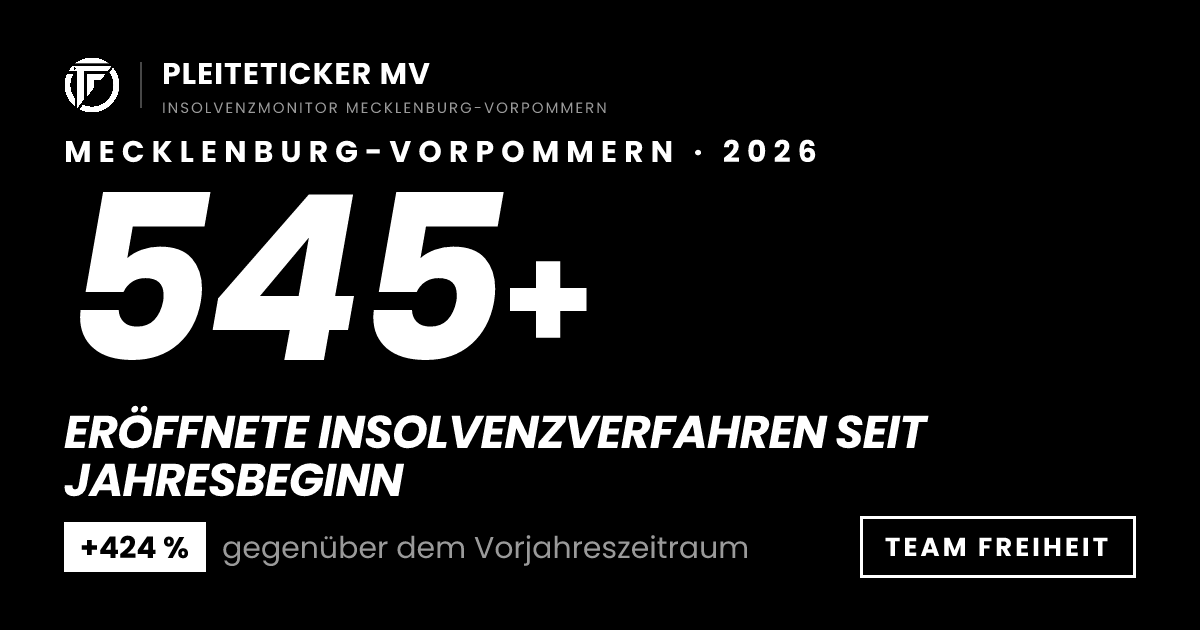
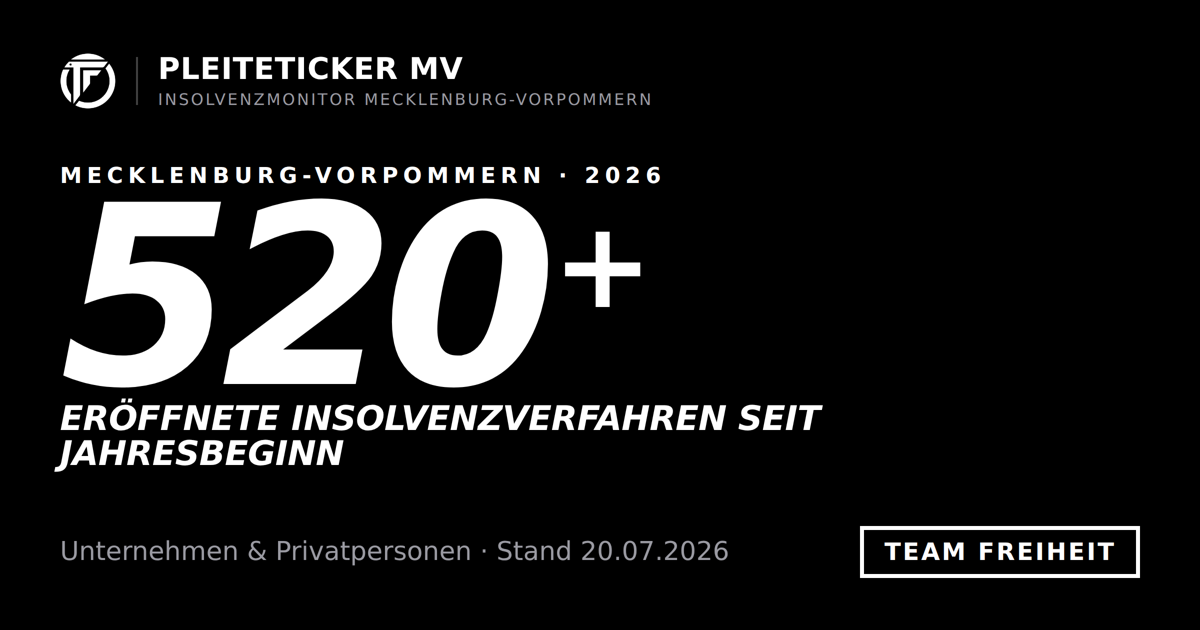
Ticker entschaerft: CTA auf team-freiheit.de, +400%-Vergleich entfernt, amtliche Einordnung (StatA M-V) ergaenzt

diff --git a/index.html b/index.html
@@ -1,4 +1,4 @@
-<!-- redeploy-trigger: 2026-07-24 sw-inversion -->
+<!-- redeploy-trigger: 2026-07-21 sw-inversion -->
 <!DOCTYPE html>
 <html lang="de">
 <head>
@@ -7,7 +7,7 @@
 <meta name="theme-color" content="#000000">
 <meta property="og:image" content="https://pleiteticker-mv.vercel.app/og-image.png">
 <meta property="og:title" content="Pleiteticker MV – Team Freiheit">
-<meta property="og:description" content="545 Insolvenzeröffnungen in MV seit Januar 2026 – +424 % gegenüber 2025">
+<meta property="og:description" content="Dokumentierte Insolvenzeröffnungen in MV seit Januar 2026 – Unternehmen &amp; Privatpersonen. Quelle: insolvenzbekanntmachungen.de">
 <meta property="og:url" content="https://pleiteticker-mv.vercel.app">
 <meta property="og:type" content="website">
 <link rel="icon" type="image/png" href="favicon.png">
@@ -159,7 +159,7 @@ footer a { color:var(--muted); text-decoration:underline; }
 </div>
 </div>
 <div class="hdr-right">
-<a href="https://machmit-team-freiheit.pages.dev/#mitmachen" class="hdr-cta" target="_blank" rel="noopener">Welches Team bist du? <span class="arw">→</span></a>
+<a href="https://www.team-freiheit.de" class="hdr-cta" target="_blank" rel="noopener">Welches Team bist du? <span class="arw">→</span></a>
 </div>
 </header>
 
@@ -171,7 +171,7 @@ footer a { color:var(--muted); text-decoration:underline; }
 <!-- SCHWARZ: Hero -->
 <section class="band band-dark">
 <div class="inner hero">
-<div class="eyebrow">Mecklenburg-Vorpommern · 01.01.2026 – 24.07.2026</div>
+<div class="eyebrow">Mecklenburg-Vorpommern · 01.01.2026 – 20.07.2026</div>
 <div class="ctr-wrap">
 <div class="ctr-num" id="mainCtr">0</div>
 <div class="ctr-plus">+</div>
@@ -179,12 +179,12 @@ footer a { color:var(--muted); text-decoration:underline; }
 <div class="hero-lbl display">Eröffnete Insolvenzverfahren in MV seit Jahresbeginn</div>
 <div class="hero-sub">Stand: <span id="standDatum">–</span> · Nur Eröffnungen · Wöchentlich aktualisiert · Quelle: insolvenzbekanntmachungen.de</div>
 <div class="pills">
-<div class="pill"><span class="pv">+424 %</span><span class="pl">ggü. Vorjahreszeitraum</span></div>
-<div class="pill"><span class="pv">104 → 545</span><span class="pl">Jan–Jul 2025 vs. 2026</span></div>
-<div class="pill"><span class="pv">Bau &amp; Gastro</span><span class="pl">am stärksten betroffen</span></div>
+<div class="pill"><span class="pv">Seit 01.01.2026</span><span class="pl">laufend gezählt</span></div>
+<div class="pill"><span class="pv">Unternehmen + Privat</span><span class="pl">eröffnete Verfahren</span></div>
+<div class="pill"><span class="pv">KW 29</span><span class="pl">39 neue Fälle</span></div>
 </div>
 <div class="hero-cta-wrap">
-<a href="https://machmit-team-freiheit.pages.dev/#mitmachen" class="hero-cta" target="_blank" rel="noopener">Welches Team bist du? <span class="arw">→</span></a>
+<a href="https://www.team-freiheit.de" class="hero-cta" target="_blank" rel="noopener">Welches Team bist du? <span class="arw">→</span></a>
 <div class="hero-cta-sub">Mach mit — finde dein Team</div>
 </div>
 <div class="upd-row"><span class="ldot"></span> Nächste Aktualisierung: Freitag Nachmittag</div>
@@ -196,9 +196,9 @@ footer a { color:var(--muted); text-decoration:underline; }
 <div class="inner">
 <div class="breaking">
 <div class="breaking-inner">
-<div class="breaking-tag">⚠ Anhaltend hoch</div>
+<div class="breaking-tag">◆ Live-Ticker</div>
 <div class="breaking-text">
-<strong>545 Eröffnungen seit Jahresbeginn</strong> — 2026 hat das gesamte Jahr 2025 (192 Fälle) bereits mehr als verdoppelt. <strong>+424 % gegenüber dem Vorjahreszeitraum.</strong> Diese Woche (KW 30): 25 neue Fälle. MV erlebt eine der schwersten Insolvenzwellen seit Jahren.
+Der Pleiteticker dokumentiert <strong>eröffnete Insolvenzverfahren in MV</strong> — Unternehmen wie Privatpersonen — Woche für Woche aus dem amtlichen Portal. <strong>Allein in KW 29: 39 neue Fälle.</strong> Zum Vergleich: Das Statistische Amt M-V zählte 2024 landesweit 2.456 Insolvenzen.
 </div>
 </div>
 </div>
@@ -225,23 +225,23 @@ footer a { color:var(--muted); text-decoration:underline; }
 <div class="inner">
 <div class="grid">
 <div class="card">
-<div class="ch">Jahresvergleich · Eröffnungen MV · insolvenzbekanntmachungen.de</div>
-<div class="bars">
-<div class="bar-row"><div class="bar-yr">2022</div><div class="bar-outer"><div class="bar-inner bold" data-w="19">101</div></div></div>
-<div class="bar-row"><div class="bar-yr">2023</div><div class="bar-outer"><div class="bar-inner bprev" data-w="26">143</div></div></div>
-<div class="bar-row"><div class="bar-yr">2024</div><div class="bar-outer"><div class="bar-inner bprev" data-w="22">122</div></div></div>
-<div class="bar-row"><div class="bar-yr">2025</div><div class="bar-outer"><div class="bar-inner bprev" data-w="35">192</div></div></div>
-<div class="bar-row"><div class="bar-yr">2026</div><div class="bar-outer"><div class="bar-inner bcur" data-w="100">545 (seit 01.01.) +424%</div></div></div>
+<div class="ch">Amtliche Einordnung · MV 2024 (Statistisches Amt M-V)</div>
+<div class="facts">
+<div class="fact"><div class="fl">Insolvenzen gesamt 2024</div><div class="fv"><span class="hl">2.456</span></div></div>
+<div class="fact"><div class="fl">Veränderung ggü. 2023</div><div class="fv">+3,1 %</div></div>
+<div class="fact"><div class="fl">davon Unternehmen</div><div class="fv">273</div></div>
+<div class="fact"><div class="fl">davon Verbraucher</div><div class="fv">1.787</div></div>
+<div class="fact"><div class="fl">Forderungen (Unternehmen)</div><div class="fv">~226 Mio €</div></div>
 </div>
 </div>
 <div class="card">
-<div class="ch">Zahlen &amp; Fakten</div>
+<div class="ch">Live erfasst · 2026 (insolvenzbekanntmachungen.de)</div>
 <div class="facts">
-<div class="fact"><div class="fl">Eröffnungen Jan–Jul 2025</div><div class="fv">104 Verfahren</div></div>
-<div class="fact"><div class="fl">Eröffnungen Jan–Jul 2026</div><div class="fv"><span class="hl">545 Verfahren</span></div></div>
-<div class="fact"><div class="fl">Anstieg ggü. Vorjahr</div><div class="fv"><span class="hl">+424 %</span></div></div>
-<div class="fact"><div class="fl">Vergleich zu Gesamtjahr 2025 (192)</div><div class="fv">545 – bereits übertroffen</div></div>
-<div class="fact"><div class="fl">Stärkste Branche</div><div class="fv">Baugewerbe</div></div>
+<div class="fact"><div class="fl">Eröffnete Verfahren seit 01.01.2026</div><div class="fv"><span class="hl">520</span></div></div>
+<div class="fact"><div class="fl">Diese Woche (KW 29)</div><div class="fv">39</div></div>
+<div class="fact"><div class="fl">Erfasst</div><div class="fv">Unternehmen + Privat</div></div>
+<div class="fact"><div class="fl">Stärkste Branche (2024)</div><div class="fv">Baugewerbe</div></div>
+<div class="fact"><div class="fl">Aktualisierung</div><div class="fv">wöchentlich</div></div>
 </div>
 </div>
 </div>
@@ -296,23 +296,23 @@ footer a { color:var(--muted); text-decoration:underline; }
 
 <script>
 const DATA = {
-verfahren: 545,
-stand: "24.07.2026",
+verfahren: 520,
+stand: "20.07.2026",
 
 woche: {
-label: "KW 30 · 21.–24.07.2026",
-anzahl: 25,
+label: "KW 29 · 13.–19.07.2026",
+anzahl: 39,
 faelle: [
-{ name: "Boldt, Jens-Rainer", ort: "Schwerin", branche: "Privatinsolvenz" },
-{ name: "Hübner, Danilo", ort: "Hagenow", branche: "Privatinsolvenz" },
-{ name: "Jäger, Leon", ort: "Sanitz", branche: "Regelinsolvenz" },
-{ name: "Körtge, Aline", ort: "Grabow", branche: "Regelinsolvenz" },
-{ name: "Krause, Hendrik", ort: "Sülstorf", branche: "Regelinsolvenz" },
-{ name: "Lange, Jana", ort: "Neustrelitz", branche: "Regelinsolvenz" },
-{ name: "Riech, Gabriele", ort: "Kuchelmiß", branche: "Regelinsolvenz" },
-{ name: "Dathe, Grit", ort: "Seebad Bansin", branche: "Privatinsolvenz" },
-{ name: "Nehls, Gerd", ort: "Pasewalk", branche: "Privatinsolvenz" },
-{ name: "Walkowiak, Sandra", ort: "Wismar", branche: "Privatinsolvenz" },
+{ name: "TBW Bau GmbH", ort: "Wismar", branche: "Baugewerbe" },
+{ name: "Veduan GmbH", ort: "Rostock", branche: "Solar & Heizung" },
+{ name: "Diana Haus & Garten Service UG", ort: "Boizenburg", branche: "Dienstleistung" },
+{ name: "Winter, Nico", ort: "Dorf Mecklenburg", branche: "Privatinsolvenz" },
+{ name: "Sperling, Andreas", ort: "Schwerin", branche: "Privatinsolvenz" },
+{ name: "Schippmann, Ande", ort: "Lübberstorf", branche: "Privatinsolvenz" },
+{ name: "Thiele, Susanne", ort: "Bergen auf Rügen", branche: "Privatinsolvenz" },
+{ name: "Mehrju, Saman", ort: "Friedland", branche: "Privatinsolvenz" },
+{ name: "Lüder, Kathrin", ort: "Kröslin", branche: "Privatinsolvenz" },
+{ name: "Buchin, Babette", ort: "Güstrow", branche: "Privatinsolvenz" },
 ]
 },
 
@@ -331,14 +331,14 @@ bigFaelle: [
 ],
 
 ticker: [
-{ name: "Boldt, Jens-Rainer", ort: "Schwerin", branche: "Privatinsolvenz" },
-{ name: "Hübner, Danilo", ort: "Hagenow", branche: "Privatinsolvenz" },
-{ name: "Jäger, Leon", ort: "Sanitz", branche: "Regelinsolvenz" },
-{ name: "Körtge, Aline", ort: "Grabow", branche: "Regelinsolvenz" },
-{ name: "Lange, Jana", ort: "Neustrelitz", branche: "Regelinsolvenz" },
-{ name: "Riech, Gabriele", ort: "Kuchelmiß", branche: "Regelinsolvenz" },
-{ name: "Dathe, Grit", ort: "Seebad Bansin", branche: "Privatinsolvenz" },
-{ name: "Nehls, Gerd", ort: "Pasewalk", branche: "Privatinsolvenz" },
+{ name: "Weide, Hans-Jürgen Kurt", ort: "Barth", branche: "Privatinsolvenz" },
+{ name: "Diana Haus & Garten Service UG", ort: "Boizenburg", branche: "Dienstleistung" },
+{ name: "Thiele, Susanne", ort: "Bergen auf Rügen", branche: "Privatinsolvenz" },
+{ name: "Sperling, Andreas", ort: "Schwerin", branche: "Privatinsolvenz" },
+{ name: "TBW Bau GmbH", ort: "Wismar", branche: "Baugewerbe" },
+{ name: "Schippmann, Ande", ort: "Lübberstorf", branche: "Privatinsolvenz" },
+{ name: "Veduan GmbH", ort: "Rostock", branche: "Solar & Heizung" },
+{ name: "Buchin, Babette", ort: "Güstrow", branche: "Privatinsolvenz" },
 ]
 };
 
